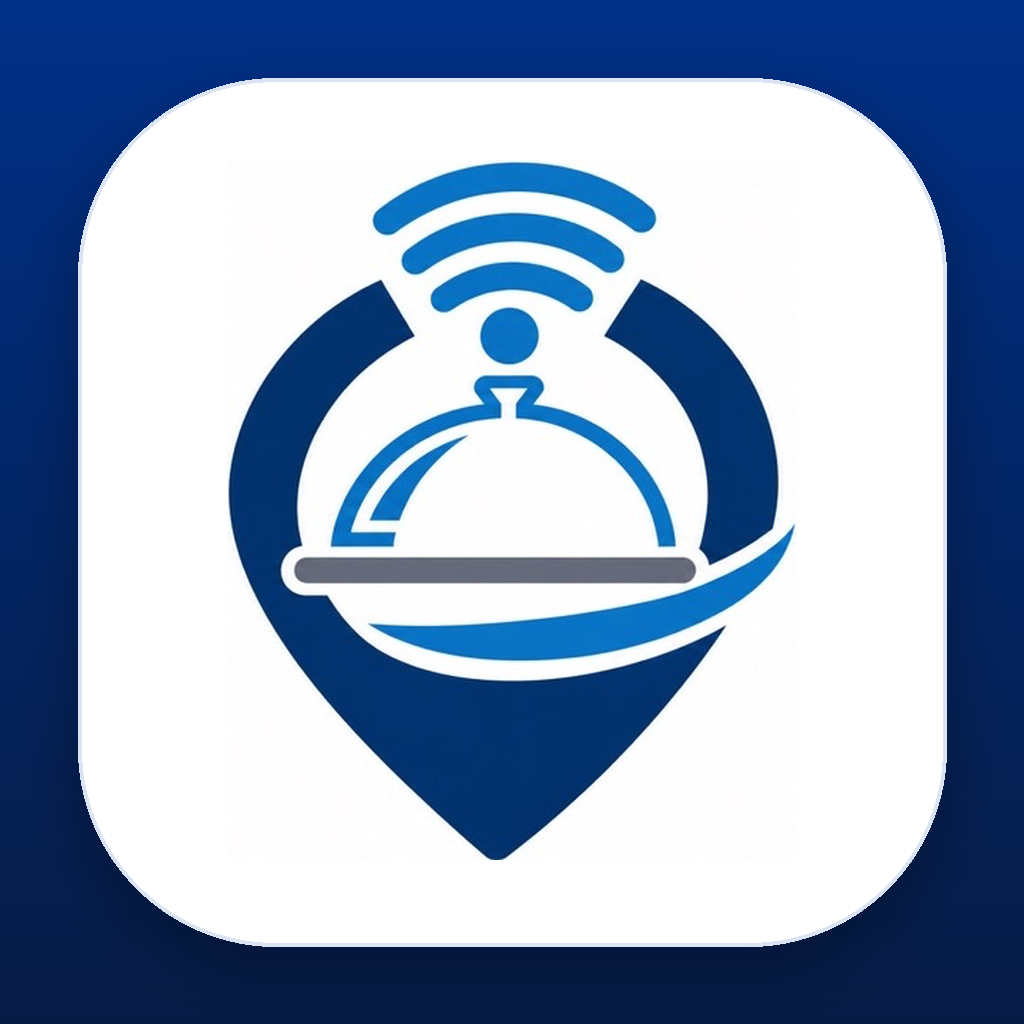
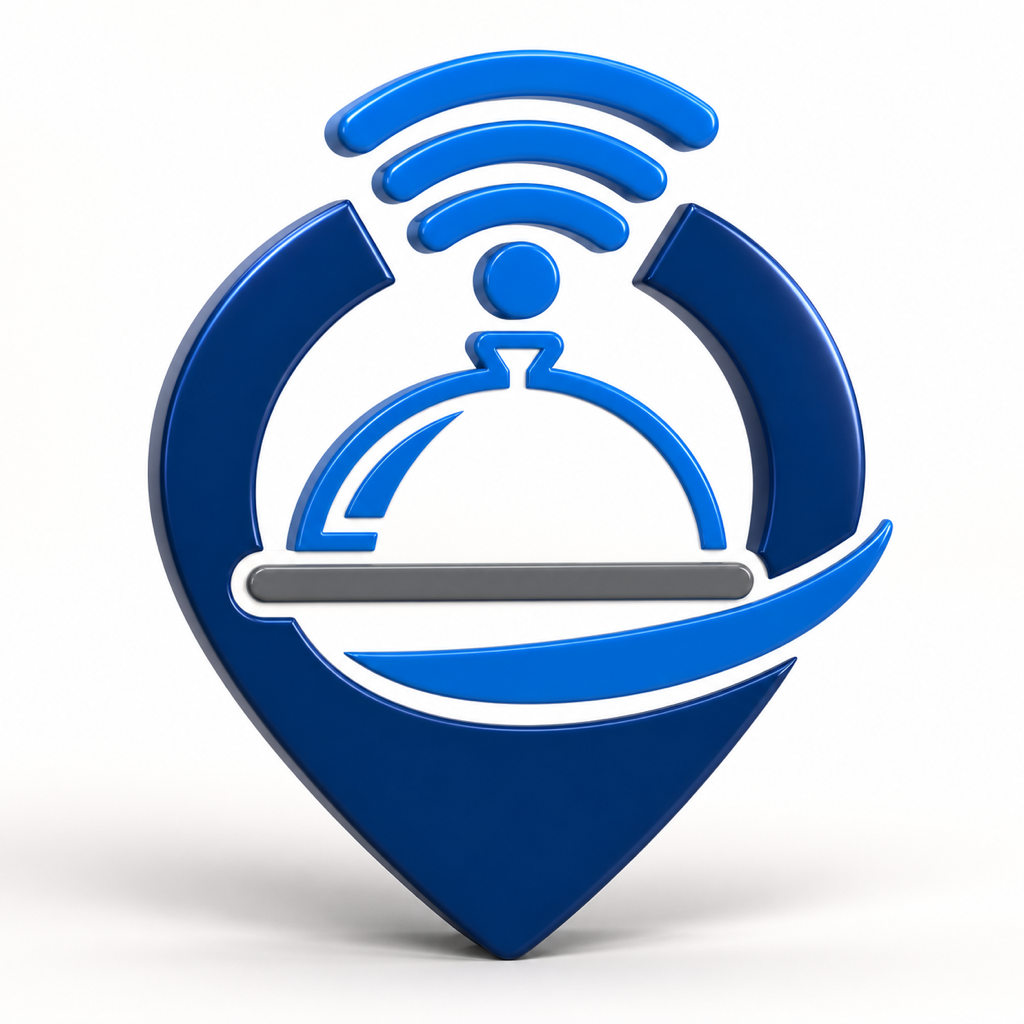
feat: usa icono 3D en app y Dock

diff --git a/public/sw.js b/public/sw.js
@@ -9,7 +9,7 @@
 // Al cambiar los archivos de /public hay que subirle el número a VERSION: eso
 // tira el caché viejo. Las páginas van por red primero, así que se actualizan
 // solas; el número importa sobre todo para íconos y librerías.
-const VERSION = 'v31';
+const VERSION = 'v32';
 const CACHE = 'golunch-' + VERSION;
 
 // jsQR es lo que lee los códigos con la cámara. Vivía en un CDN, y por eso un

diff --git a/DESIGN.md b/DESIGN.md
@@ -9,14 +9,16 @@ azul Glovis, superficies blancas y fondos fríos. La firma aprobada es
 compacto. Glovis usa `public/glovis.svg` sobre superficies claras y
 `public/glovis-white.svg` directamente sobre azul, sin placa ni padding.
 Los PNG se conservan únicamente para favicons e íconos de instalación, donde
-la compatibilidad del sistema operativo importa más que la escalabilidad.
-Los originales autorizados, incluido el trazo monocromático, viven en
-`assets/brand/` y no deben redibujarse desde CSS.
+la compatibilidad del sistema operativo importa más que la escalabilidad. Esa
+familia deriva sin redibujo de `assets/brand/go-lunch-3d.png`: el arte 3D
+aprobado se conserva cuadrado, opaco y con su fondo blanco original.
 
-El panel usa una familia propia de íconos `public/panel-*`: favicon compacto
-para pestañas y una placa azul corporativa, opaca y de borde a borde para el
-Dock de macOS. La versión maestra del Dock es de 1024 px; el isotipo aprobado
-se conserva intacto dentro de una placa blanca con margen de seguridad.
+La app usa la familia `public/icono-*` y el panel la familia `public/panel-*`.
+Ambas muestran el mismo símbolo 3D para mantener continuidad entre pestañas,
+accesos instalados y el Dock de macOS. La versión maestra del Dock es de
+1024 px; las variantes de 16 a 512 px son reducciones directas del original.
+Los demás originales autorizados, incluido el trazo monocromático, viven en
+`assets/brand/` y no deben redibujarse desde CSS.
 
 ## Principios
 

diff --git a/PRODUCT.md b/PRODUCT.md
@@ -53,7 +53,8 @@ El pedido personal no requiere cuenta ni contraseña: localiza al empleado con s
 ## Evidence on Hand
 
 - Logotipo aprobado: `public/go-lunch.svg`.
-- La marca compacta se recorta del mismo SVG maestro en la interfaz; los PNG se conservan únicamente como íconos de instalación.
+- La marca compacta se recorta del mismo SVG maestro dentro de la interfaz.
+- Favicons, accesos instalados y Dock usan el arte 3D aprobado de `assets/brand/go-lunch-3d.png`, derivado en las familias PNG `public/icono-*` y `public/panel-*`.
 - Originales autorizados de color y línea: `assets/brand/`.
 - Logotipo Hyundai Glovis: `public/glovis.svg` sobre superficies claras y `public/glovis-white.svg` directamente sobre azul.
 - Flujo real de empleado: `public/pedido.html` y `routes/pedido.js`.
